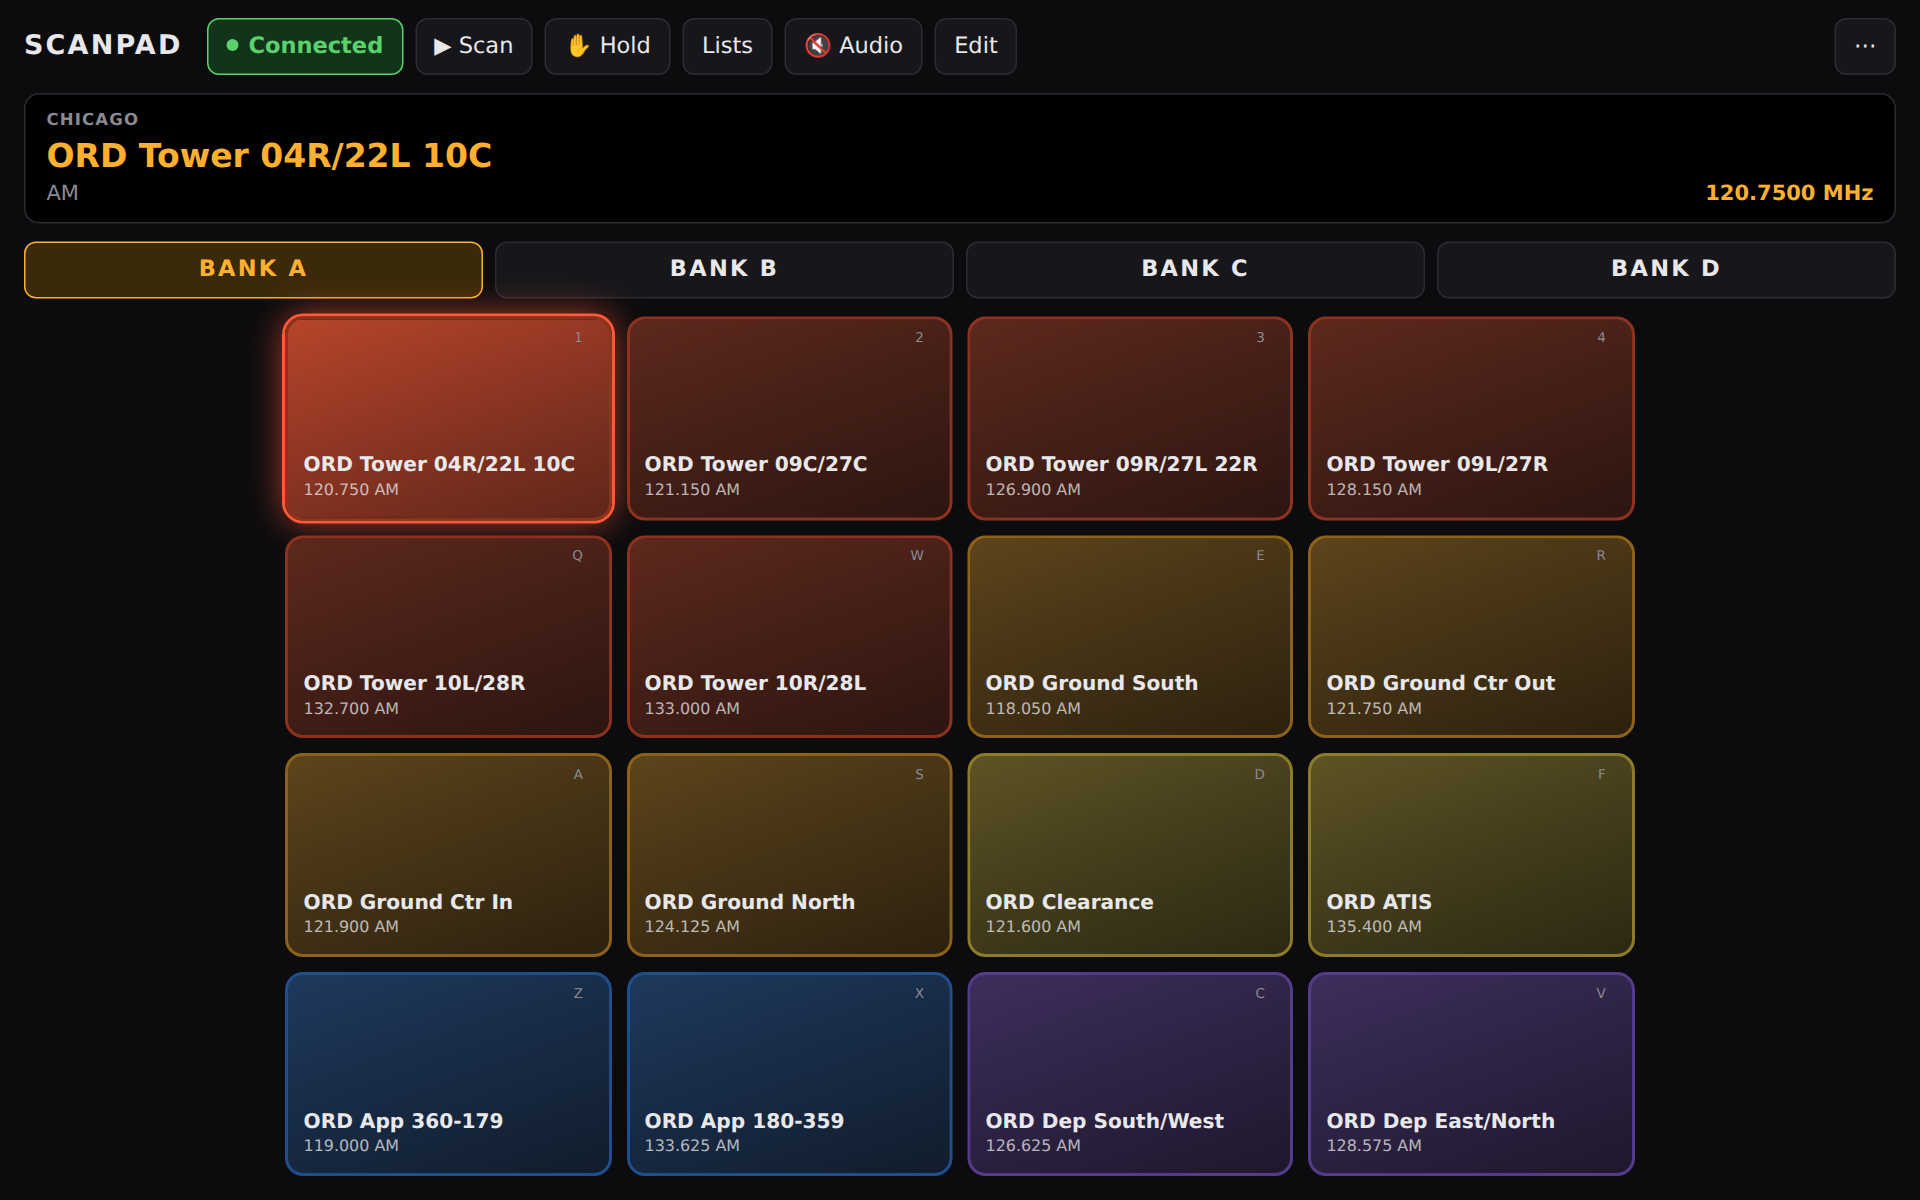
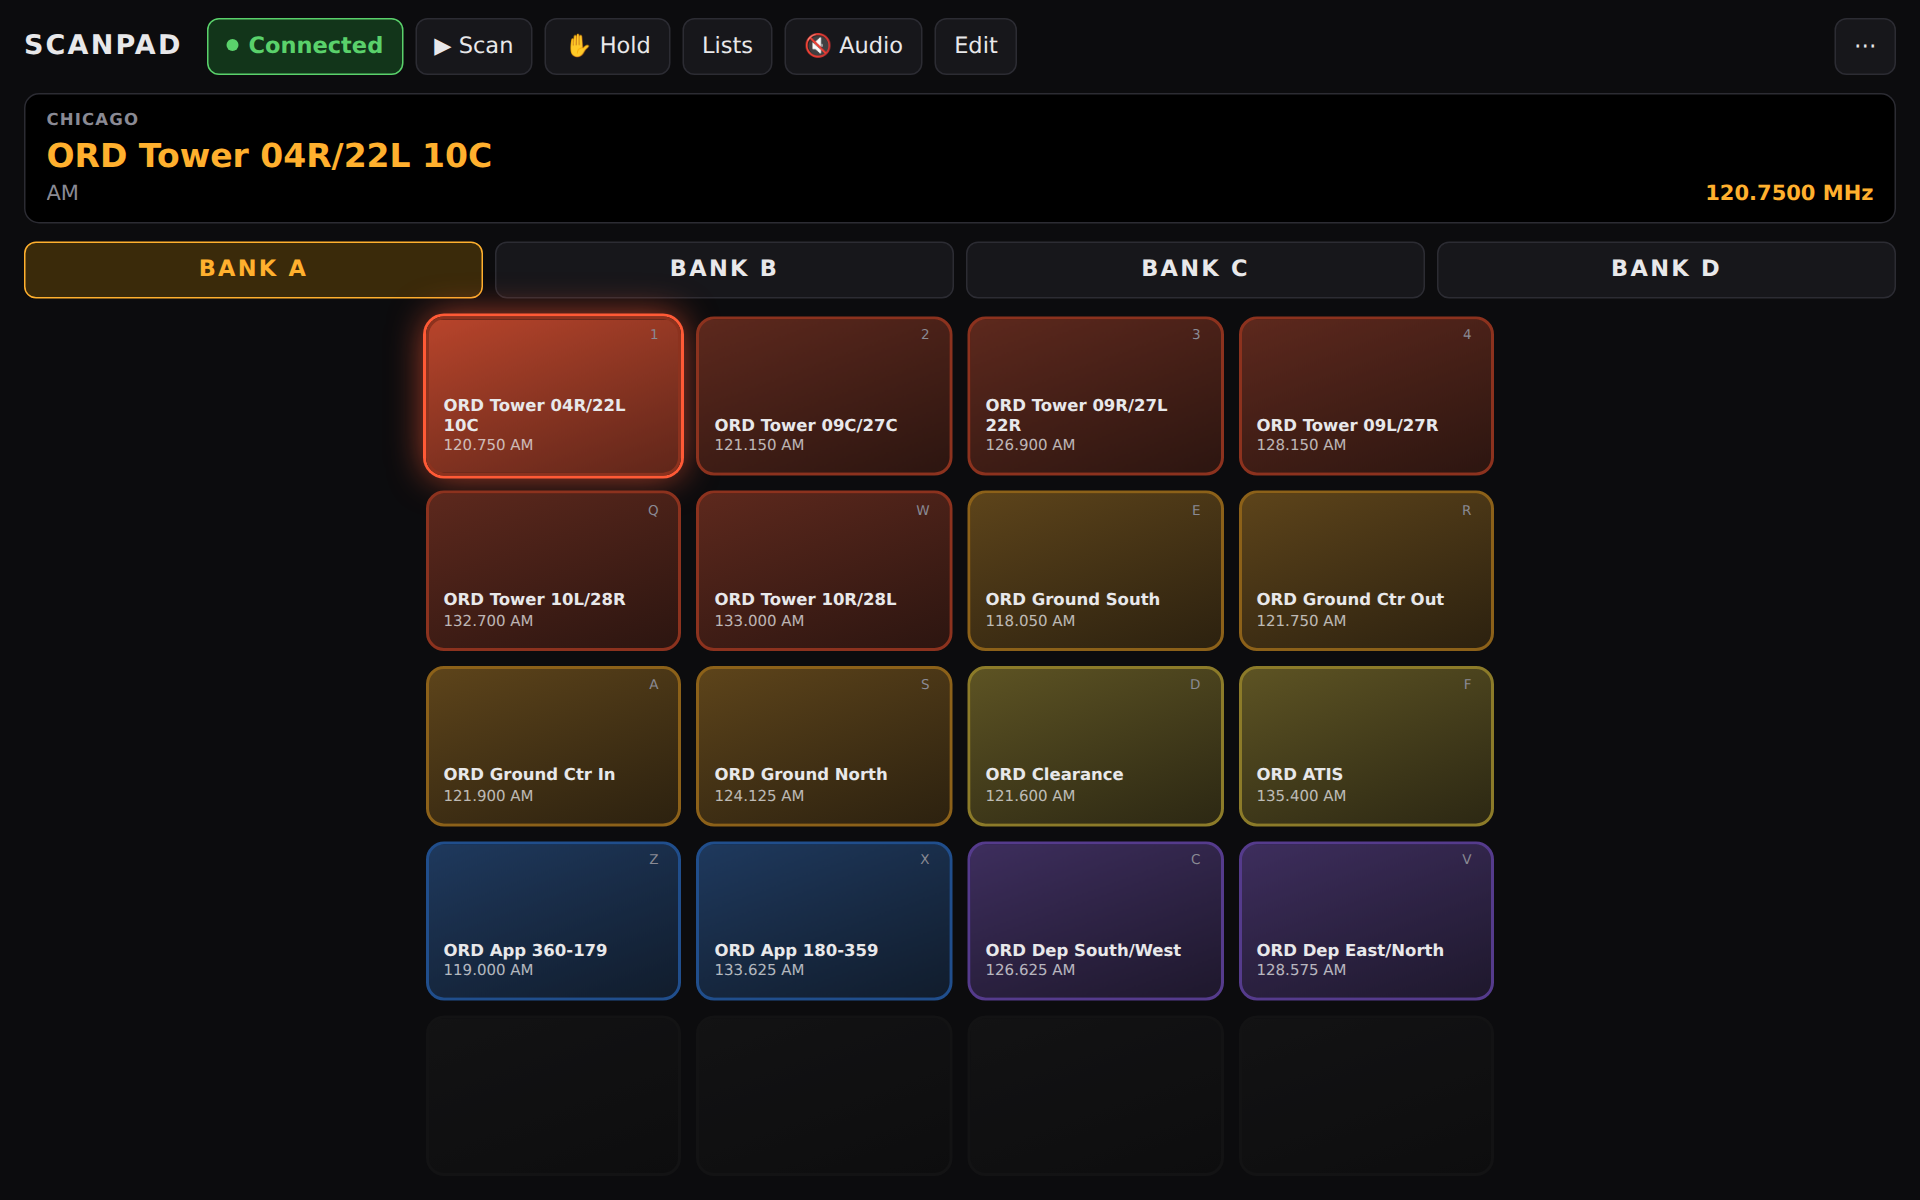
Five rows of pads, and my new police channels with labels
A bank now holds 20 pads: on a phone the fifth row fits under the
other four at the same size, and where height is short the pads get a
little shorter instead. Older files pad out to 20. The fifth row has no
keyboard keys. A name with no spaces now wraps instead of running off
the pad.

My New York set gains NYPD Transit Div 2, Sheriff Citywide and
Bronx/Manhattan, MTA PD District 6/7/11 dispatch, Henry Hudson Bridge,
NYSP Troop L Link, Yonkers Police 1 and Westchester County Police Ch 1
and Muni, and bank B uses labels (NYPD, Sheriff, NYSP...) with shorter
names. The scan-only pads move to the new bottom-right corner. README
and screenshots updated.

diff --git a/index.html b/index.html
@@ -54,16 +54,16 @@
   /* The pads take whatever room is left on screen, on any device: square when
      the space is tall, up to 1.6:1 when it is wide, and never past its edges. */
   #padArea { flex: 1; min-height: 0; container-type: size; touch-action: pan-y pinch-zoom; }
-  #grid { --g: 10px; --w: calc((100cqw - 3 * var(--g)) / 4); --h: calc((100cqh - 3 * var(--g)) / 4);
+  #grid { --g: 10px; --w: calc((100cqw - 3 * var(--g)) / 4); --h: calc((100cqh - 4 * var(--g)) / 5);
     display: grid; gap: var(--g); justify-content: center;
-    grid-template-columns: repeat(4, min(var(--w), var(--h) * 1.6)); grid-template-rows: repeat(4, min(var(--h), var(--w))); }
+    grid-template-columns: repeat(4, min(var(--w), var(--h) * 1.6)); grid-template-rows: repeat(5, min(var(--h), var(--w))); }
   .pad { position: relative; container-type: size; min-width: 0; min-height: 0; overflow: hidden; border-radius: 12px; border: 2px solid color-mix(in srgb, var(--c) 55%, #000); background: linear-gradient(160deg, color-mix(in srgb, var(--c) 32%, #111), color-mix(in srgb, var(--c) 14%, #0a0a0a)); color: var(--text); display: flex; flex-direction: column; justify-content: flex-end; align-items: flex-start; padding: 10px; text-align: left; transition: transform .06s, box-shadow .15s; touch-action: pan-y pinch-zoom; }
   .pad:active { transform: scale(.96); }
   .pad.empty { --c: #333; opacity: .45; }
   .pad.live { box-shadow: 0 0 0 2px var(--c), 0 0 24px color-mix(in srgb, var(--c) 70%, transparent); background: linear-gradient(160deg, color-mix(in srgb, var(--c) 70%, #111), color-mix(in srgb, var(--c) 35%, #0a0a0a)); }
   /* Pad text scales with the pad (cqmin = 1% of its shorter side), and --fit
      shrinks it further on a bank whose text wouldn't fit (see fitPads). */
-  .pad .name { font-weight: 600; font-size: calc(clamp(11px, 12cqmin, 26px) * var(--fit, 1)); line-height: 1.15; overflow-wrap: break-word; }
+  .pad .name { max-width: 100%; font-weight: 600; font-size: calc(clamp(11px, 12cqmin, 26px) * var(--fit, 1)); line-height: 1.15; overflow-wrap: break-word; }
   .pad .freq { font: 500 calc(clamp(10px, 9.5cqmin, 20px) * var(--fit, 1)) / 1.2 system-ui, -apple-system, sans-serif; font-variant-numeric: tabular-nums; color: color-mix(in srgb, var(--text) 75%, transparent); margin-top: 2px; }
   .pad .tag { font: 500 calc(clamp(9px, 8cqmin, 17px) * var(--fit, 1)) system-ui, -apple-system, sans-serif; font-variant-numeric: tabular-nums; color: color-mix(in srgb, var(--text) 55%, transparent); margin-top: 1px; }
   /* The label (often the department) sits in the empty top of the pad, two
@@ -226,7 +226,9 @@ import { Speaker } from './speaker.js?v=4';
 const BANKS = ['A', 'B', 'C', 'D'];
 const COLORS = ['#ff5a36', '#ffb02e', '#ffe04a', '#5ad16b', '#2ec4b6', '#3a8dff', '#9b6bff', '#ff5ab4', '#c8c8c8'];
 // Keyboard layout mirrors the 4x4 grid, drum-machine style.
-const KEYS = ['1', '2', '3', '4', 'q', 'w', 'e', 'r', 'a', 's', 'd', 'f', 'z', 'x', 'c', 'v'];
+// Four rows have keyboard keys; the fifth has none.
+const KEYS = ['1', '2', '3', '4', 'q', 'w', 'e', 'r', 'a', 's', 'd', 'f', 'z', 'x', 'c', 'v', '', '', '', ''];
+const padNo = i => KEYS[i] ? KEYS[i].toUpperCase() : String(i + 1);
 const STORE = 'scanpad.v1';
 
 const $ = id => document.getElementById(id);
@@ -244,12 +246,18 @@ let pollTimer = null;
 function load() {
   try {
     const s = JSON.parse(localStorage.getItem(STORE));
-    if (s && s.banks) return s;
+    if (s && s.banks) return fillBanks(s);
   } catch {}
-  return { bank: 'A', banks: Object.fromEntries(BANKS.map(b => [b, Array(16).fill(null)])), fresh: true };
+  return { bank: 'A', banks: Object.fromEntries(BANKS.map(b => [b, Array(KEYS.length).fill(null)])), fresh: true };
+}
+// Banks were 16 pads before the fifth row; pad older files out to 20.
+function fillBanks(s) {
+  for (const b of BANKS) if (Array.isArray(s.banks[b])) while (s.banks[b].length < KEYS.length) s.banks[b].push(null);
+  return s;
 }
 function usePads(s) {
   if (!s.banks || !BANKS.every(b => Array.isArray(s.banks[b]))) throw new Error('not a ScanPad file');
+  fillBanks(s);
   // Names of lists, systems and departments ("1", "1.5", "1.2.3"): the file's
   // fill in what this device hasn't learned yet.
   const names = { ...(s.names || {}), ...(state.names || {}) };
@@ -451,7 +459,7 @@ function slideName() {
 }
 new ResizeObserver(slideName).observe($('lcdNameBox'));
 
-// The 16 pad buttons are made once and updated in place: the radio's screen
+// The 20 pad buttons are made once and updated in place: the radio's screen
 // arrives every 1.5 s, and replacing a button under a finger loses its tap or
 // swipe (iOS keeps sending a touch to the element it started on).
 function renderGrid() {
@@ -748,7 +756,7 @@ function addSwitchPad(qk) {
   if (i < 0) return toast(`Bank ${state.bank} is full; clear a pad first`);
   pads[i] = { kind: 'qk', name: nameOf(qk), qk, color: '#5ad16b' };
   save(); renderGrid();
-  toast(`Added to bank ${state.bank}, pad ${KEYS[i].toUpperCase()}`);
+  toast(`Added to bank ${state.bank}, pad ${padNo(i)}`);
 }
 
 $('lists').onclick = () => { $('qkDlg').showModal(); openLevel(''); };

diff --git a/README.md b/README.md
@@ -1,7 +1,7 @@
 # ScanPad
 
 A drum-machine style pad for the **Uniden SDS150** scanner. Each pad holds a
-channel; tap it and the radio jumps there and holds. Four banks of 16 pads,
+channel; tap it and the radio jumps there and holds. Four banks of 20 pads,
 one-tap scan-list switches, and the radio's audio played on your phone or PC.
 
 It runs in the browser over Bluetooth. No app to install, no account, no
@@ -184,8 +184,8 @@ audio is on ScanPad asks for the radio's screen four times a second.
 
 ### Use it from the keyboard
 
-The 16 pads are mapped to the left side of the keyboard. Each pad shows its
-key in the corner.
+The first 16 pads are mapped to the left side of the keyboard. Each pad shows
+its key in the corner; the fifth row has no keys.
 
 |   |   |   |   |
 | --- | --- | --- | --- |
@@ -249,8 +249,8 @@ back on.
 
 Build pads in the app with **Edit**, then **Export pads** to keep them. Or
 write a `scanpad.json` by hand (or ask an AI to) and load it with **Import pads**. Feel free to fork
-the project and ship your own sets. The format is four banks of 16 pads each
-(`null` is an empty pad):
+the project and ship your own sets. The format is four banks of 20 pads each
+(`null` is an empty pad; a bank with only 16 leaves the fifth row empty):
 
 ```json
 {
